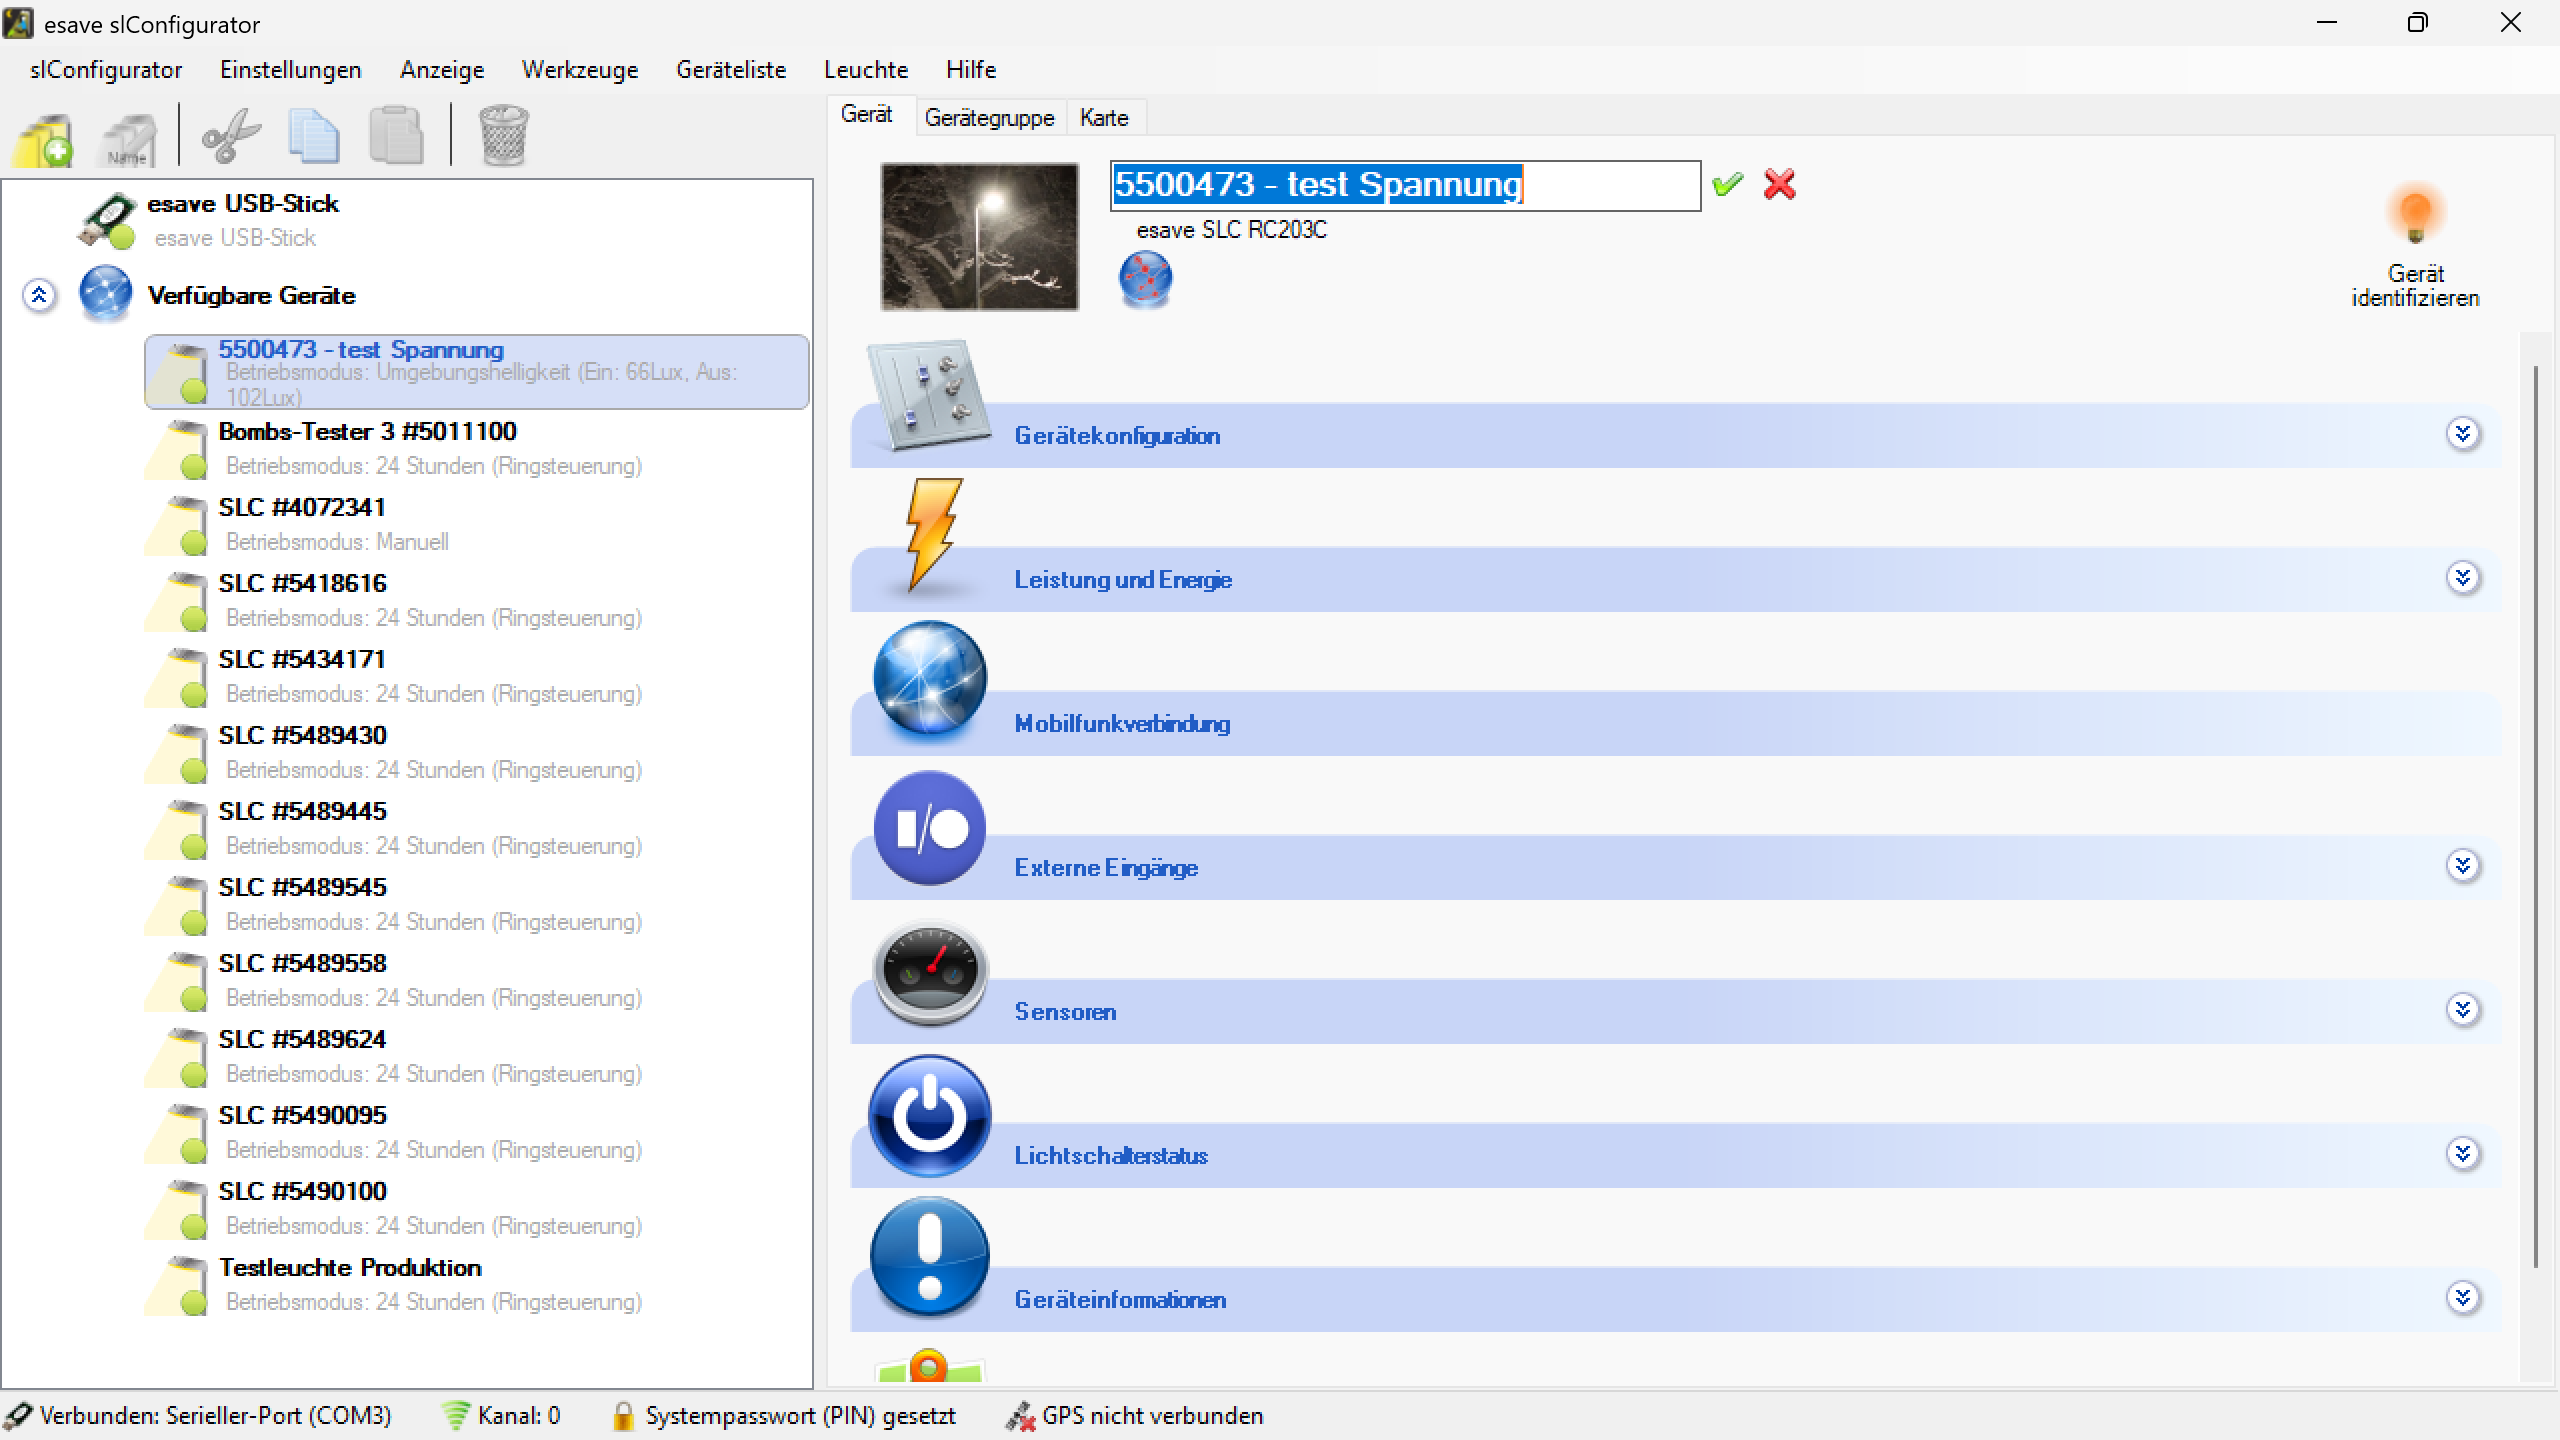
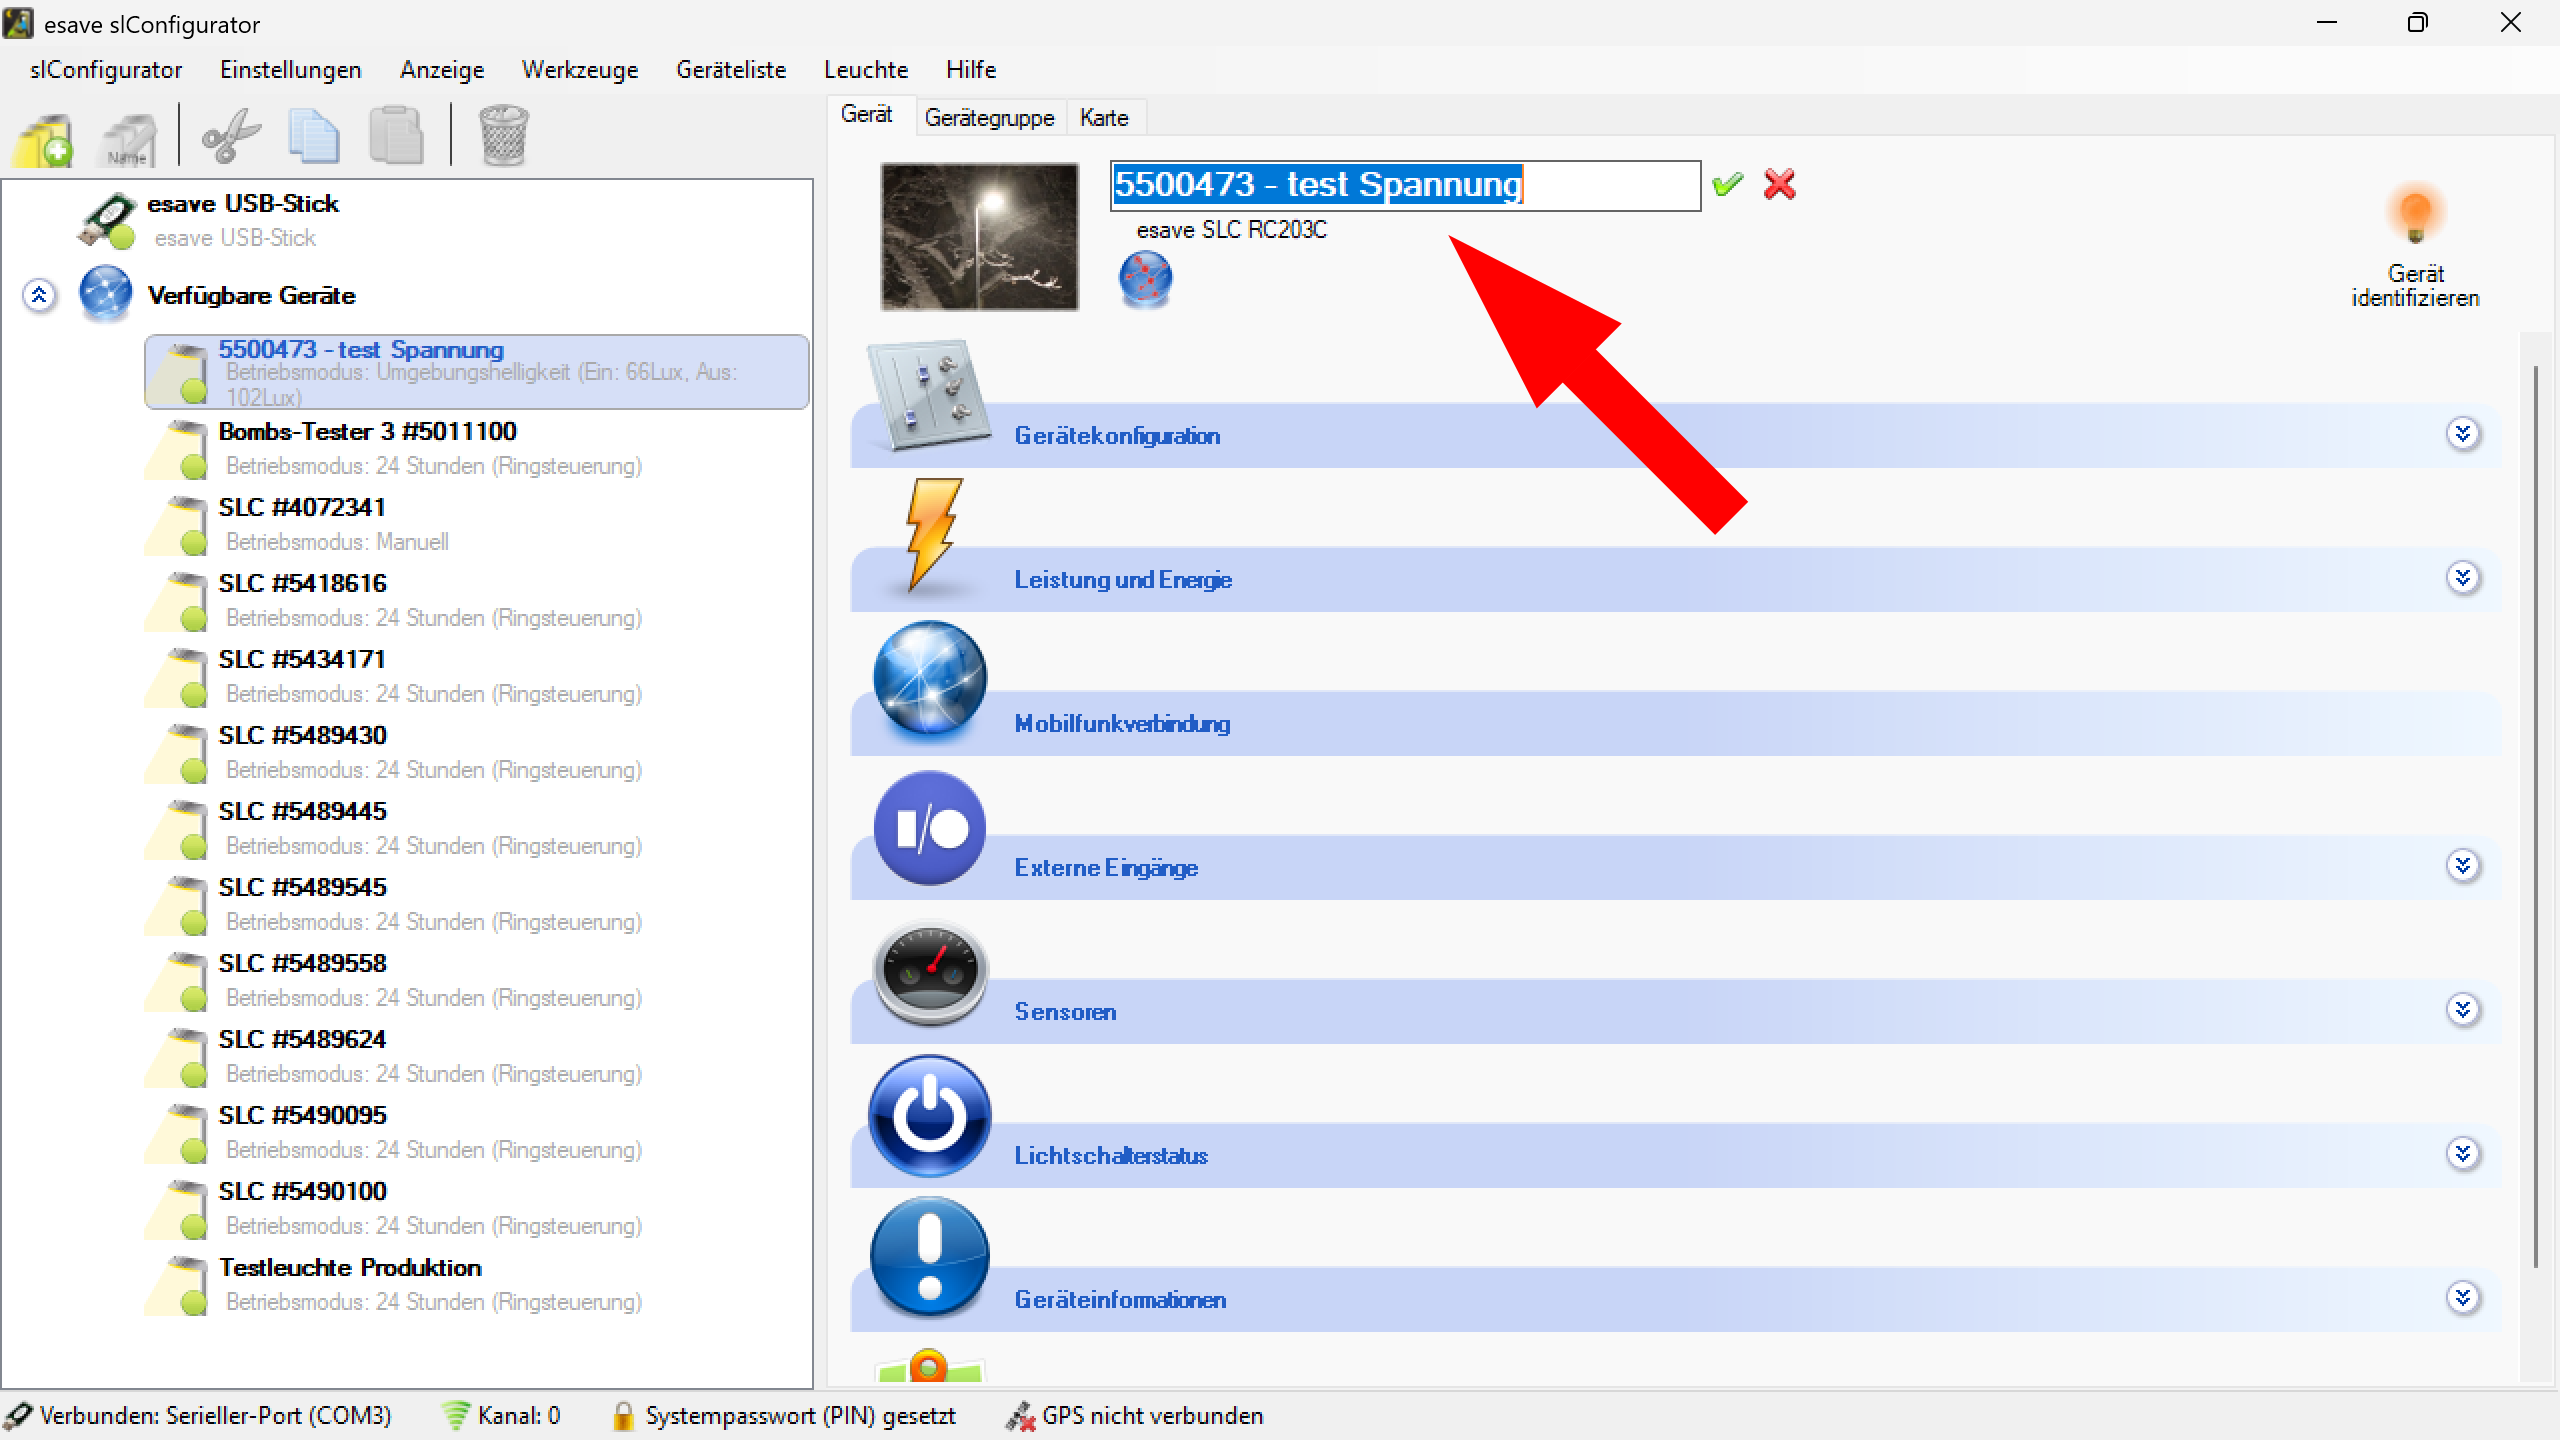
Update name change documentation and images

Changed region(s): [[0.5625, 0.1562, 0.6875, 0.375]]

diff --git a/de/src/5-verfuegbare-geraete/2-geraete-einstellungen/1-namen-aendern/README.md b/de/src/5-verfuegbare-geraete/2-geraete-einstellungen/1-namen-aendern/README.md
@@ -1,8 +1,8 @@
 # Namen Ändern
 ![Name Ändern](namen-aendern-1.png)  
 
-*Um den Namen einer Leuchte zu ändern, klicken Sie auf das Namensfeld.*  
+*Um den Namen einer Leuchte zu ändern, wählen Sie das Gerät unter verfügbare Geräte aus.*  
 
 ![Name Ändern](namen-aendern-2.png)  
 
-*Es erscheint ein Eingabefeld für die Namensänderung.*
+*Klicken Sie auf den Namen des Geräts, es erscheint ein Eingabefeld für die Namensänderung.*
